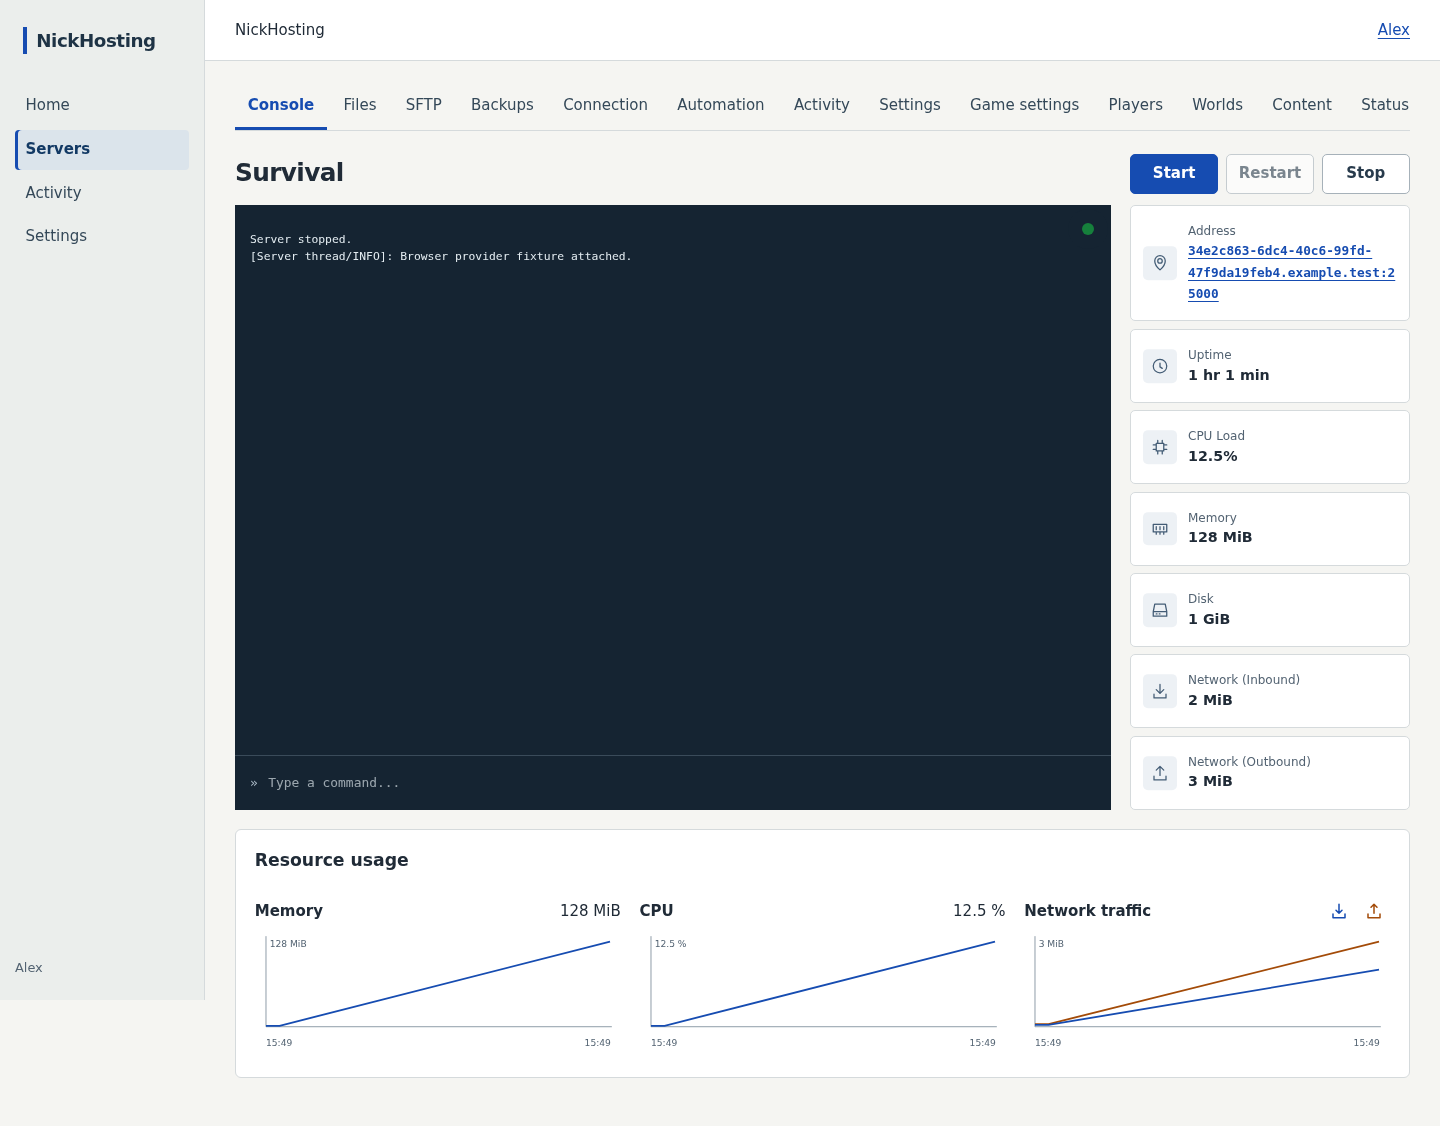
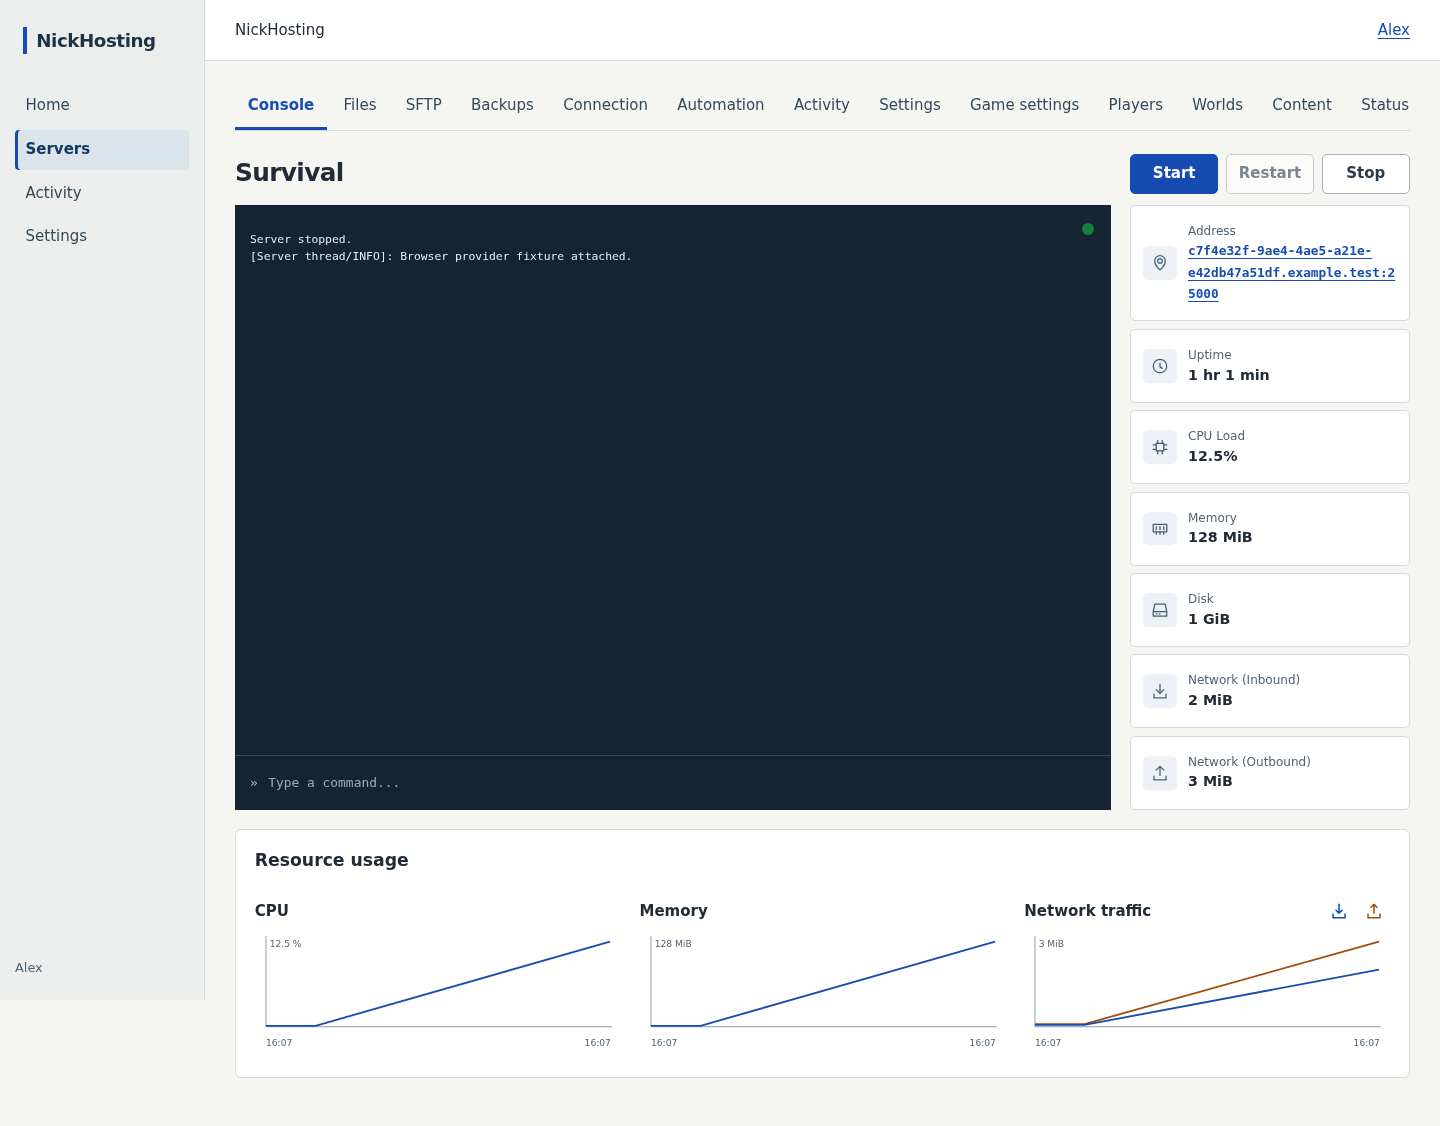
fix(web): simplify chart headers and show CPU first

diff --git a/apps/web/src/features/console.tsx b/apps/web/src/features/console.tsx
@@ -439,7 +439,7 @@ function Chart({ title, series, unit }: { title: string; series: ChartSeries[]; 
     <figure className={`metric-chart${network ? ' network-chart' : ''}`}>
       <figcaption>
         <h3>{title}</h3>
-        {network ? (
+        {network && (
           <div className="network-legend">
             {series.map((item) => {
               const last = item.values.at(-1);
@@ -472,10 +472,6 @@ function Chart({ title, series, unit }: { title: string; series: ChartSeries[]; 
               );
             })}
           </div>
-        ) : (
-          <span>
-            {format.number(series[0]?.values.at(-1)?.value ?? 0)} {unit}
-          </span>
         )}
       </figcaption>
       <svg viewBox="0 0 400 135" role="img" aria-label={summary}>
@@ -585,17 +581,6 @@ function Telemetry({
       ) : (
         <div className="columns resource-charts">
           <Chart
-            title={t('web.memory')}
-            unit="MiB"
-            series={[
-              {
-                label: t('web.memory'),
-                color: '#164cb1',
-                values: samples.map((s) => ({ time: s.time, value: s.memory })),
-              },
-            ]}
-          />
-          <Chart
             title={t('web.cpu')}
             unit="%"
             series={[
@@ -603,6 +588,17 @@ function Telemetry({
                 label: t('web.cpu'),
                 color: '#164cb1',
                 values: samples.map((s) => ({ time: s.time, value: s.cpu })),
+              },
+            ]}
+          />
+          <Chart
+            title={t('web.memory')}
+            unit="MiB"
+            series={[
+              {
+                label: t('web.memory'),
+                color: '#164cb1',
+                values: samples.map((s) => ({ time: s.time, value: s.memory })),
               },
             ]}
           />

diff --git a/docs/M5-VALIDATION.md b/docs/M5-VALIDATION.md
@@ -3715,3 +3715,20 @@ No backend changes, container restarts or production interactions. Rollback:
 revert the source change. No historical full-suite rerun was needed.
 Final focused browser check also passed active-tab focus after direct reload
 (1/1); the temporary test was removed and disposable fixtures cleaned.
+
+### 2026-10-11 — Compact resource-chart headers and CPU-first order
+
+Removed duplicate current values beside Memory/CPU chart titles; the resource
+cards remain authoritative for the visible live totals. Chart scales, times,
+accessible summaries and the network legend remain unchanged. The Owner then
+requested CPU before Memory: the chart order is now CPU, Memory, Network.
+
+Web typecheck and scoped Biome passed for the header change; scoped Biome passed
+again after the JSX-only reorder. Independent review found no issues in the
+header removal. An isolated one-off browser check passed (1/1, Axe zero), proving
+sidebar values remain while chart headers omit duplicate values and network
+legend controls remain. No full historical suite was run; no production
+interactions or container restarts. Rollback is a source revert.
+A final narrow browser capture after the reorder passed (1/1), confirmed CPU →
+Memory → Network and refreshed/reviewed the existing running-desktop screenshot.
+Temporary checks were removed; disposable fixtures were cleaned.

diff --git a/docs/FRONTEND-I18N.md b/docs/FRONTEND-I18N.md
@@ -144,7 +144,8 @@ creation or automatically started again.
 Console updates use bounded SSE parsing/display (300 retained lines with a
 per-line bound); charts show timestamps, units and gaps. The resource section keeps
 last-hour charts without a period selector, measurement table, pagination buttons or
-explanatory footer. Chart history reads remain bounded to 100 recent samples;
+explanatory footer. Charts appear in CPU, Memory, Network order. Memory and CPU headers omit duplicate current values already
+shown in the resource cards; chart scale labels and accessible summaries remain. Chart history reads remain bounded to 100 recent samples;
 backend history pagination remains available. Network traffic shares one chart
 and scale: received is blue, sent is amber. Both lines are solid, with blue drawn last so
 coincident values show blue rather than alternating colors. Top-right arrow icons
